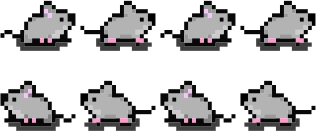
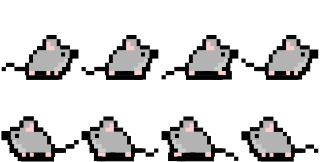
Działa!

diff --git a/css/style.css b/css/style.css
@@ -42,7 +42,7 @@ div#game div#board div.tile.platform{background:url("../img/platform.png") no-re
 div#game div#board div.tile.diamonds{background:url("../img/diamond.png") no-repeat 0 0; border:none;}
 div#game div#board div.tile.heart{background:url("../img/heart.png") no-repeat 0 0; border:none;}
 div#game div#board div.tile.love{background:url("../img/love.png") no-repeat 0 0; border:none;}
-div#game div#board div#player{left:0px; top:0px; width:80px; height:50px; background: url("../img/rats.png") no-repeat 0px 0px; z-index:999;}
+div#game div#board div#player{left:0px; top:0px; width:80px; height:80px; background: url("../img/rats.png") no-repeat 0px 0px; z-index:999;}
 
 div#nxtlvl{position:relative; margin:50px auto; width: 800px; height: 550px; background: #000;}
 div#nxtlvl h1{text-align:center; position:relative; color:#FF9999; top:40%; transform:translateY(-50%);}

diff --git a/js/player.js b/js/player.js
@@ -156,7 +156,17 @@ player = {
 		player.status = "stand";
 		if(player.lives > 0){
 			clearInterval(game.loop);
-			startGame(game.level, game.points, player.lives);
+				var points;
+			if(game.level == 'level1'){
+				points = 0;
+			}else if (game.level == 'level2'){
+				points = 3;
+			}else if(game.level == 'level3'){
+				points = 7;
+			}
+			
+			startGame(game.level, points, player.lives);
+
 			if(player.lives == 2){
 				$('#hearts').removeClass();
 				$('#hearts').addClass('two');
@@ -174,11 +184,6 @@ player = {
 
 	},
 	win: function(){
-		$('body').html('<div id="win"><h1>Gratulacje!</h1><span id="again">zagraj ponownie</span></div>');
-		$("span#again").on('click', function(){
-			console.log('aa');
-			clearInterval(game.loop);
-			startGame('level1', 0, 3);
-		});
+		$('body').html('<div id="win"><h1>Gratulacje!</h1></div>');
 	}
 };

diff --git a/js/game.js b/js/game.js
@@ -17,11 +17,11 @@ game = {
 		}
 		
 		game.points = points;
+		player.lives = lives;
 
 		//rysuje mape kafelków
 		board.draw(level, function(){
 			$('#points').text(game.points);
-
 			if(lives == 2){
 				$('#hearts').removeClass();
 				$('#hearts').addClass('two');
